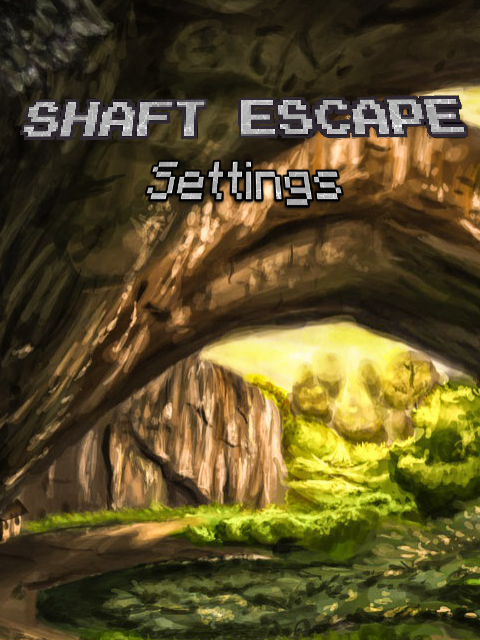
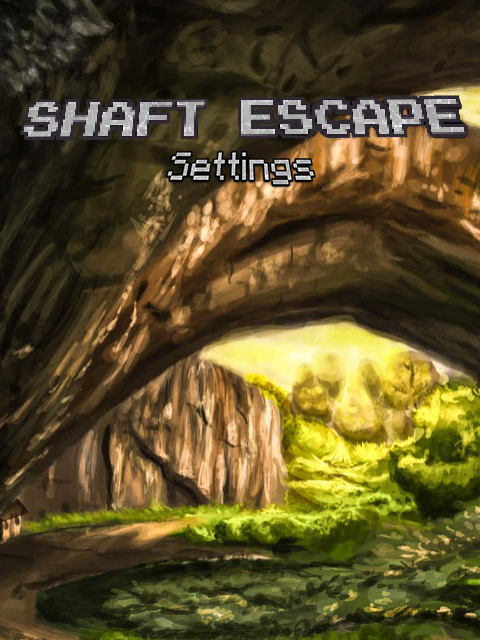
Linked GUI to new backgrounds
< user-interface

Changed region(s): [[0.2812, 0.2188, 0.7188, 0.3438]]

diff --git a/src/main/java/nl/tudelft/ti2206/group9/gui/scene/HighScoreScene.java b/src/main/java/nl/tudelft/ti2206/group9/gui/scene/HighScoreScene.java
@@ -1,9 +1,5 @@
 package nl.tudelft.ti2206.group9.gui.scene;
 
-import static nl.tudelft.ti2206.group9.util.GameObservable.OBSERVABLE;
-
-import java.util.List;
-
 import javafx.application.Platform;
 import javafx.beans.binding.Bindings;
 import javafx.collections.FXCollections;
@@ -21,6 +17,10 @@ import nl.tudelft.ti2206.group9.server.Highscore;
 import nl.tudelft.ti2206.group9.server.HighscoreClientAdapter;
 import nl.tudelft.ti2206.group9.server.HighscoreClientAdapter.ResultCallback;
 import nl.tudelft.ti2206.group9.util.GameObserver;
+
+import java.util.List;
+
+import static nl.tudelft.ti2206.group9.util.GameObservable.OBSERVABLE;
 
 /**
  * @author Maikel on 16/10/2015.
@@ -171,5 +171,11 @@ public class HighScoreScene extends AbstractMenuScene {
         scoreList.setFocusTraversable(false);
         scoreList.setItems(SCORE_LIST);
         return scoreList;
+    }
+
+    /** Override background, the Highscore background shows "Highscore". */
+    @Override
+    public String getBackgroundPath() {
+        return "highscoreBackground.png";
     }
 }

diff --git a/src/main/java/nl/tudelft/ti2206/group9/gui/scene/MainMenuScene.java b/src/main/java/nl/tudelft/ti2206/group9/gui/scene/MainMenuScene.java
@@ -1,6 +1,5 @@
 package nl.tudelft.ti2206.group9.gui.scene;
 
-import static nl.tudelft.ti2206.group9.util.GameObservable.OBSERVABLE;
 import javafx.scene.Node;
 import javafx.scene.control.Button;
 import javafx.scene.control.Label;
@@ -10,6 +9,8 @@ import nl.tudelft.ti2206.group9.audio.SoundtrackPlayer;
 import nl.tudelft.ti2206.group9.level.save.SaveGame;
 import nl.tudelft.ti2206.group9.util.GameObserver.Category;
 import nl.tudelft.ti2206.group9.util.GameObserver.Menu;
+
+import static nl.tudelft.ti2206.group9.util.GameObservable.OBSERVABLE;
 
 
 /**
@@ -116,5 +117,11 @@ public final class MainMenuScene extends AbstractMenuScene {
      */
     public static SoundtrackPlayer getAudioPlayer() {
         return apMainMenu;
+    }
+
+    /** Override background, the Main menu background shows "Menu". */
+    @Override
+    public String getBackgroundPath() {
+        return "menuBackground.png";
     }
 }

diff --git a/src/main/java/nl/tudelft/ti2206/group9/gui/scene/AccountScene.java b/src/main/java/nl/tudelft/ti2206/group9/gui/scene/AccountScene.java
@@ -169,4 +169,10 @@ public class AccountScene extends AbstractMenuScene {
     private static boolean alreadyExists(final String name) {
         return SaveGame.getSaveGames().contains(name);
     }
+
+    /** Override background, the Account background shows "Accounts". */
+    @Override
+    public String getBackgroundPath() {
+        return "accountsBackground.png";
+    }
 }

diff --git a/src/main/java/nl/tudelft/ti2206/group9/gui/scene/AbstractMenuScene.java b/src/main/java/nl/tudelft/ti2206/group9/gui/scene/AbstractMenuScene.java
@@ -76,7 +76,7 @@ public abstract class AbstractMenuScene extends AbstractScene {
      * @return the path to the background image (located in the gui package).
      */
     public String getBackgroundPath() {
-        return "menuBackground.png";
+        return "standardBackground.png";
     }
 
     /**

diff --git a/src/main/java/nl/tudelft/ti2206/group9/gui/scene/ShopScene.java b/src/main/java/nl/tudelft/ti2206/group9/gui/scene/ShopScene.java
@@ -281,5 +281,10 @@ public class ShopScene extends AbstractMenuScene {
         }
     }
 
+    /** Override background, the Shop background shows "Shop". */
+    @Override
+    public String getBackgroundPath() {
+        return "shopBackground.png";
+    }
 
 }

diff --git a/src/main/java/nl/tudelft/ti2206/group9/gui/scene/SettingsScene.java b/src/main/java/nl/tudelft/ti2206/group9/gui/scene/SettingsScene.java
@@ -199,7 +199,6 @@ public final class SettingsScene extends AbstractMenuScene {
         return slider;
     }
 
-
     /** Override background, the Settings background shows "Settings". */
     @Override
     public String getBackgroundPath() {
